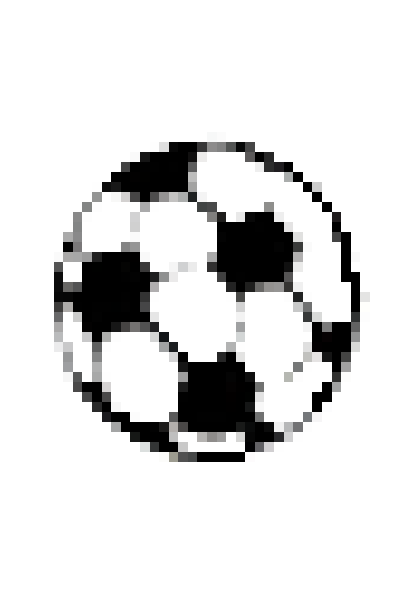
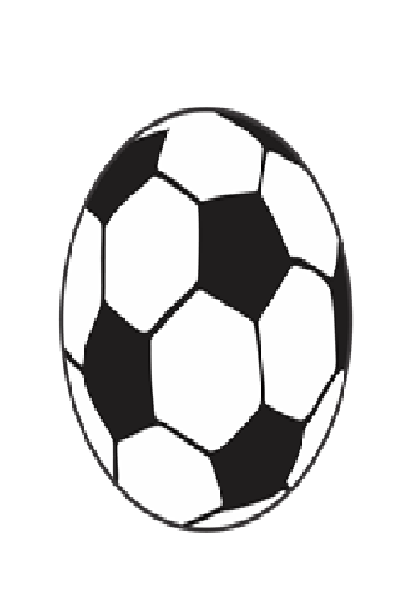
Add files via upload

Changed region(s): [[0.1162, 0.1788, 0.9007, 0.894], [0.2906, 0.8046, 0.4068, 0.8642]]

diff --git a/Inicio.html b/Inicio.html
@@ -78,6 +78,16 @@
 			width:1100px;
 			height:180px;
 		}
+		#Div4{
+				background-image: url("Fondo9.png");
+			margin:20px;
+			padding:40px;
+			border-radius:20px;
+			border-width:2px;
+				box-shadow: 1px 10px 19px 2px rgba(0,0,0,0.10);
+			width:1100px;
+			height:180px;
+		}
 		
 		#Div2{	
 		display:flex;
@@ -180,6 +190,12 @@
 			flex-direction:column;
 			background-image: url("Fondo9_2.png");
 			}
+			#Div4{	
+			width:300px;
+			height:200px;
+			flex-direction:column;
+			background-image: url("Fondo9_2.png");
+			}
 			.SeniorDiv{
 		
 			width:300px;
@@ -227,6 +243,11 @@
 			
 			}
 			#Div3{	
+			width:200px;
+			height:140px;
+			flex-direction:column;
+			}
+			#Div4{	
 			width:200px;
 			height:140px;
 			flex-direction:column;
@@ -333,9 +354,15 @@
 					<img  class="imgtitulo" src="./Titulo2.png"></img>
 					<img  class="imgabajo"src="./Jugador2_2.png"></img>
 				</div>
-			</div>
+			</div><br><br>
 			
-		</div><p>Con la colabrocación de Alejandro Sánchez</p>
+			
+		</div>
+		<h1>Preguntas frecuentes</h1>
+			<div  id="Div4">
+			<p>.</p>
+		</div><br><br>
+		<p>Con la colabrocación de Alejandro Sánchez</p>
 		<p>Beta 1.0</p>
 	</div>
 </body>

diff --git a/JuegoAventura.html b/JuegoAventura.html
@@ -181,6 +181,17 @@
 		background-color:yellow;
 		box-shadow: 1px 10px 15px 2px rgba(0,0,0,0);
 		}
+		#abajo a{
+		color:gray;
+		}
+		#abajo a:hover{
+		background-color:yellow;
+		box-shadow: 1px 10px 15px 2px rgba(0,0,0,0);
+		}
+		#abajo a:activate{
+		background-color:yellow;
+		box-shadow: 1px 10px 15px 2px rgba(0,0,0,0);
+		}
 		.respuestas{
 		background-color:white;
 		color:black;
@@ -240,6 +251,7 @@
 		margin-top:-20px;
 		font-size:12px;
 		
+		
 		}
 		#gameplayvidas div{
 		display:flex;
@@ -253,12 +265,19 @@
 		#gameplayimagenes img{
 		height:230px;
 		}
-		#tuimagen{
-		
+		#tuimagen{	
 		margin-left:50px;
+		
 		}
 		#imagenenemigo{
 		margin-right:50px;
+		
+		}
+		#gameplayrival{
+		-webkit-text-stroke: 1px red;
+		}
+		#gameplaytu{
+		-webkit-text-stroke: 1px green;
 		}
 		#divatrasdetemas{
 		display:flex;
@@ -278,6 +297,7 @@
 			}
 		#Principal{
 			font-size:10px;
+			color:gray;
 			}
 			#infoarriba1{
 	
